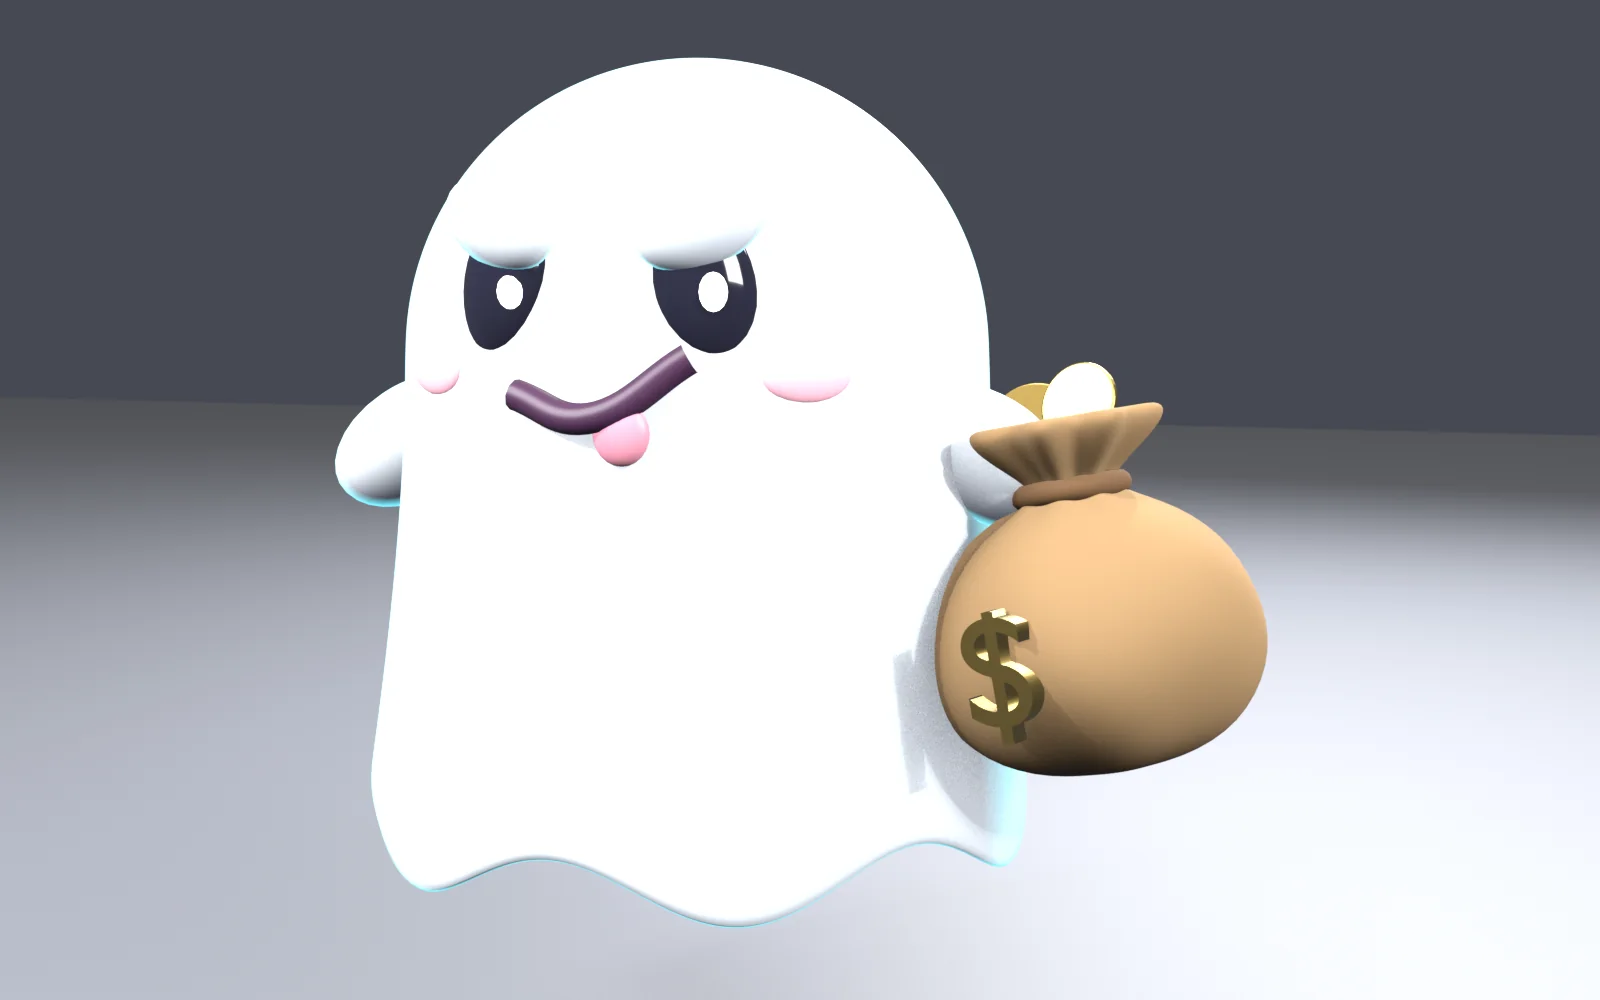
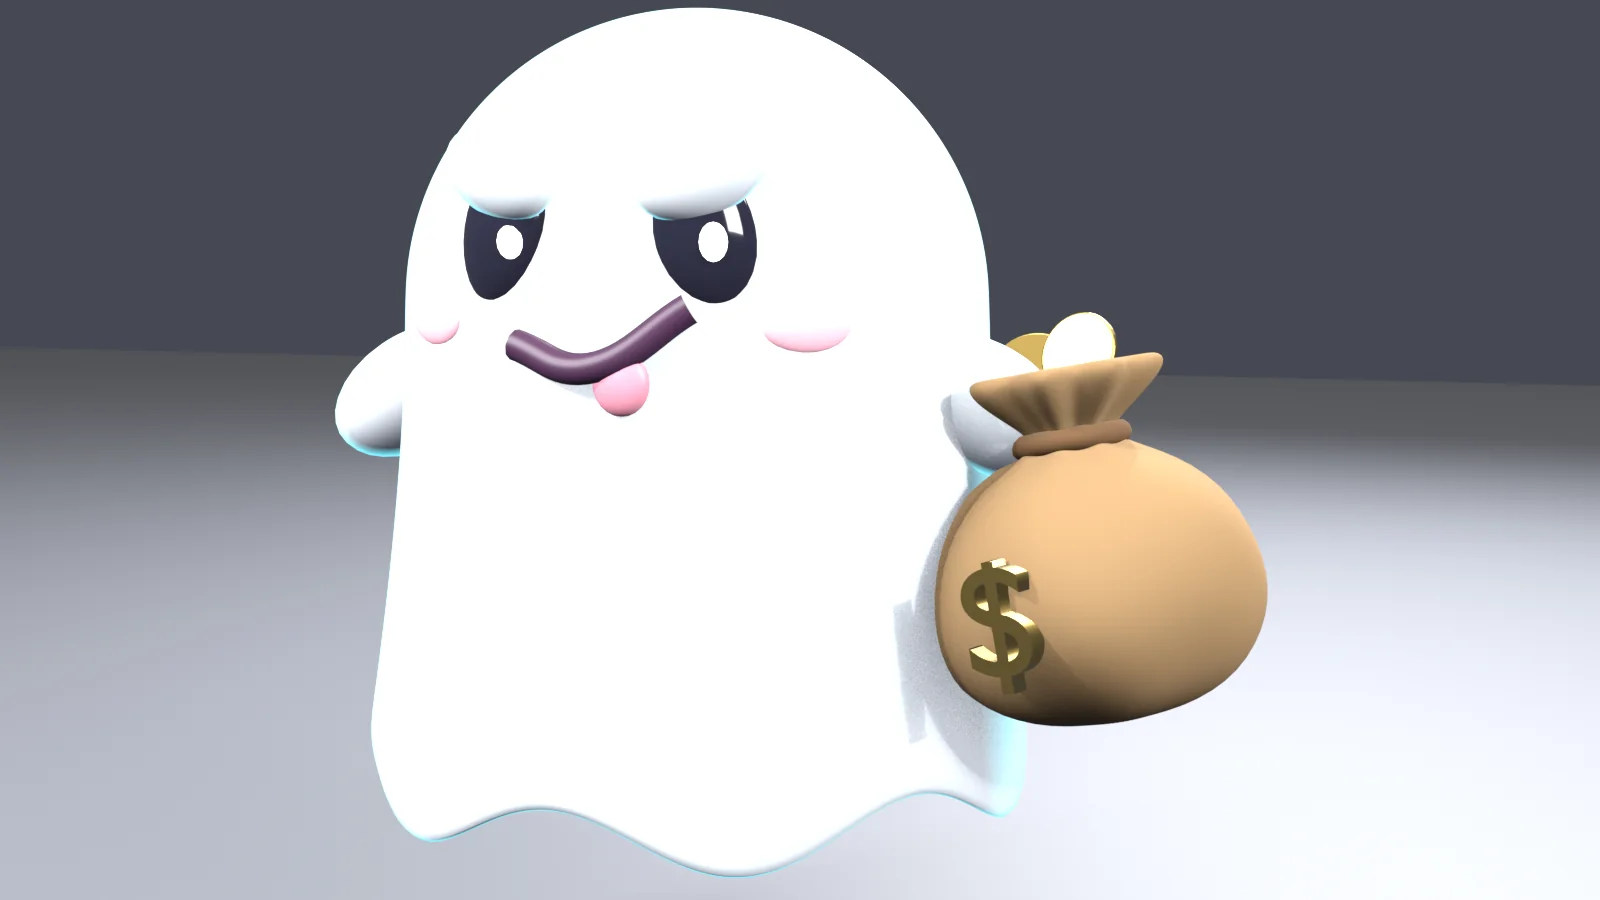
ChaseRun: ghost render cropped to 16:9 to match its pair; drop unused stills
Claude-Session: https://claude.ai/code/session_014U2jbu1THn9CC7ykNAP5Ho

diff --git a/app/projects/chaserun/page.tsx b/app/projects/chaserun/page.tsx
@@ -196,7 +196,7 @@ export default function ChaseRunPage() {
             <div className={styles.pair}>
               <figure className={`${styles.figure} ${styles.ghostShot}`}>
                 <a href={`${A}/ghost-render.webp`} aria-label="Open full-size image: the ghost rendered in Blender">
-                  <Image src={`${A}/ghost-render.webp`} width={1600} height={1000} alt="The ghost character rendered in Blender: a white, smiling ghost holding a brown coin bag with a dollar sign" sizes="(max-width: 700px) 92vw, 420px" />
+                  <Image src={`${A}/ghost-render.webp`} width={1600} height={900} alt="The ghost character rendered in Blender: a white, smiling ghost holding a brown coin bag with a dollar sign" sizes="(max-width: 700px) 92vw, 420px" />
                 </a>
                 <figcaption><L en="The ghost, rendered in Blender. The 3D assets are script-built, with AI assistance." zh="Blender 里渲染的幽灵。3D 素材由脚本生成，脚本是 AI 辅助编写的。" /></figcaption>
               </figure>
